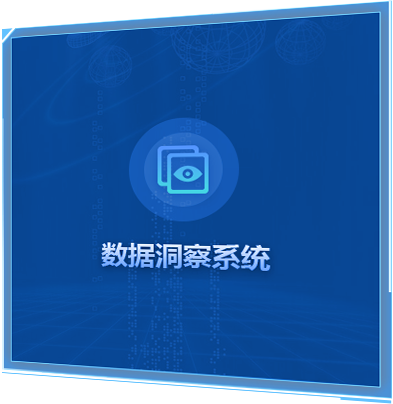
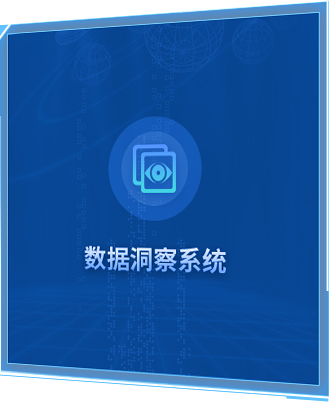
SuperOverview

diff --git a/src/components/SuperOverview.vue b/src/components/SuperOverview.vue
@@ -24,9 +24,9 @@
       </el-col>
     </el-row>
     <img id="img1_bg" :src="imgSrc1" @click="enterDB" alt=""
-         style="width: 20.4%; left: 17.1%; top: 40.4%; z-index: 99; position: absolute;"/>
+         style="width: 17.1%; left: 12.7%; top: 41.4%; z-index: 99; position: absolute;"/>
     <img id="img2_bg" :src="imgSrc2" alt=""
-         style="width: 22.2%; left: 38.7%; top: 43.4%; z-index: 1; position: absolute;"/>
+         style="width: 17.1%; left: 31.3%; top: 44%; z-index: 1; position: absolute;"/>
     <el-dropdown @command="handleCommand" style="z-index: 2">
       <el-button style="background-image: url(../assets/data_vis.png);
 left:-4.5rem; top:2.8rem;
@@ -40,8 +40,10 @@ position: absolute">
         </el-dropdown-item>
       </el-dropdown-menu>
     </el-dropdown>
+    <img :src="imgSrc3" @click="enterDataAnalysis" alt=""
+         style="width: 17.1%; left: 50%; top: 43.5%; z-index: 99; position: absolute;"/>
     <img :src="imgSrc4" @click="enterDataInsight" alt=""
-         style="width: 20.4%; left: 62.4%; top: 41.4%; z-index: 99; position: absolute;"/>
+         style="width: 17.1%; left: 68.5%; top: 41.4%; z-index: 99; position: absolute;"/>
   </div>
 </template>
 
@@ -53,11 +55,13 @@ export default {
       headList: [],
       imgSrc1: require('../assets/db_vis.png'),
       imgSrc2: require('../assets/data_vis.png'),
+      imgSrc3: require('../assets/data_analysis.png'),
       imgSrc4: require('../assets/data_insight.png'),
       timer: null,
       nowWeek: "",
       nowDate: "",
       nowTime: "",
+
     }
   },
   mounted() {
@@ -104,8 +108,7 @@ export default {
       this.$router.push({path: '/data_compare'});
     },
     enterDataInsight() {
-      // this.$router.push({path: '/analyze'});
-      this.$router.push({path: '/data_compare'});
+      this.$router.push({path: '/analyze'});
     },
     Click() {
       alert("click")
